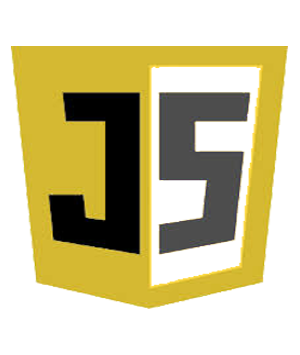
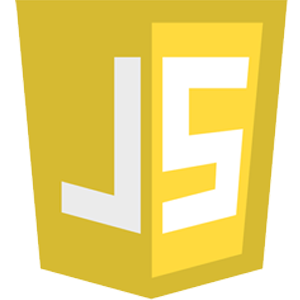
changes to HTML, CSS, JS pictures

diff --git a/dist/index.html b/dist/index.html
@@ -1,1 +1,1 @@
-<!DOCTYPE html><html lang="en"><head><title>Off-Piste Designs</title><meta charset="utf-8"><meta http-equiv="X-UA-Compatible" content="IE=edge"><meta name="description" content="Off-Piste Designs utilizes unconventional, unusual, and unexpected designs to create unique and modern websites."><meta name="keywords" content="Unique and Modern Websites, web development, websites, website building, web design, digital design, brian berzellini, berziiii, scratch website builds"><meta name="viewport" content="width=device-width,initial-scale=1"><link rel="shortcut icon" href="images/favicon.ico"><link rel="stylesheet" href="//cdnjs.cloudflare.com/ajax/libs/normalize/3.0.1/normalize.min.css"><link rel="stylesheet" href="css/bootstrap.min.css"><link rel="stylesheet" href="css/main.css"><script src="//cdnjs.cloudflare.com/ajax/libs/jquery/2.1.1/jquery.min.js" type="text/javascript"></script><script src="//cdnjs.cloudflare.com/ajax/libs/jquery-csv/0.71/jquery.csv-0.71.min.js" type="text/javascript"></script></head><body><header><nav><div class="row"><div class="col-lg-4 col-md-4 col-sm-4 hidden-xs"><h5>Off-Piste Designs</h5></div><div class="col-lg-4 col-md-4 col-sm-4"><a id="top" href="home.html"><img src="images/off-piste-logo.png" alt="Off-Piste Logo"></a></div><div class="col-lg-4 col-md-4 col-sm-4"><ul><li><a href="home.html"><span class="active">Home</span></a></li><li><a href="about.html"><span>About</span></a></li></ul></div></div><a href="#top" class="top hide" id="scrollTop"><span class="glyphicons glyphicons-up-arrow"></span></a></nav></header><main><div class="main-container"><div class="hero-container"><img src="images/tahoe-background.png" alt="Tahoe Image"><div class="hero-curtain"><div class="hero-content"><div class="rotating-sentence">Hi, I'm Brian.<br>I'm a Web Developer,<br>Creator,<br>&amp;&nbsp;<span class="rotating-words" id="rotateWord"></span></div></div></div></div><div class="work-container"><div class="row"><div class="col-lg-8 col-lg-offset-2 col-md-8 col-md-offset-2 col-sm-8 col-sm-offset-2 col-xs-8 col-xs-offset-2 work-title"><h1>Work</h1></div></div><div class="row"><div class="col-lg-10 col-lg-offset-1 col-md-10 col-md-offset-1 col-sm-10 col-sm-offset-1"><div class="row sample-container"><div class="col-lg-4 col-md-4 col-sm-6 work-sample"><a href="tastyr.html"><img src="images/tastyr-logo.png" alt="Tastyr Logo"> <span class="sample-caption center"><h5>Tastyr</h5><h6>Hybrid Recipe Finder &amp; Food Planner</h6></span></a></div><div class="col-lg-4 col-md-4 col-sm-6 work-sample"><a href="a-guy-and-a-website.html"><img src="images/agaw-logo.png" alt="A Guy and A Webstie Logo"> <span class="sample-caption center"><h5>A Guy and A Website</h5><h6>Custom Wordpress Theme</h6></span></a></div><div class="col-lg-4 col-md-4 col-sm-6 work-sample"><a href="curiousalums.html"><img src="images/curiousalums-logo.png" alt="Curious Alums Logo"> <span class="sample-caption center"><h5>The Curious Alum</h5><h6>GA Alumni Community</h6></span></a></div><div class="col-lg-4 col-md-4 col-sm-6 work-sample"><a href="jba.html"><img src="images/JBA-logo.png" alt="JBA Logo"> <span class="sample-caption center"><h5>JBA Financial Advisors</h5><h6>Corporate Site Redesign</h6></span></a></div><div class="col-lg-4 col-md-4 col-sm-6 work-sample"><a href="Admon.html"><img src="images/Admon-logo.png" alt="Admon Logo"> <span class="sample-caption center"><h5>Admon Wedding</h5><h6>Website Design &amp; development</h6></span></a></div><div class="col-lg-4 col-md-4 col-sm-6 work-sample"><a href="Vitamin-T.html"><img src="images/vitamin-t-logo.png" alt="Vitamin T Logo"> <span class="sample-caption center"><h5>Vitamin T Talent Portal</h5><h6>Beta Web Application</h6></span></a></div></div></div></div></div><div class="service-container"><div class="row"><div class="col-lg-8 col-lg-offset-2 col-md-8 col-md-offset-2 col-sm-8 col-sm-offset-2 col-xs-8 col-xs-offset-2 service-title"><h1>Services</h1></div></div><div class="row"><div class="col-lg-12 col-md-12 col-sm-12 service-wrapper"><div class="row"><div class="col-lg-3 col-md-3 col-sm-6"><span class="glyphicons glyphicons-pencil"></span><h4>Design</h4></div><div class="col-lg-3 col-md-3 col-sm-6"><span class="glyphicons glyphicons-embed-close"></span><h4>Development</h4></div><div class="col-lg-3 col-md-3 col-sm-6"><span class="glyphicons glyphicons-cogwheels"></span><h4>Strategy</h4></div><div class="col-lg-3 col-md-3 col-sm-6"><span class="glyphicons glyphicons-fire"></span><h4>Branding</h4></div></div></div></div></div><div class="service-container"><div class="row"><div class="col-lg-8 col-lg-offset-2 col-md-8 col-md-offset-2 col-sm-8 col-sm-offset-2 col-xs-8 col-xs-offset-2 service-title"><h1>Skills</h1></div></div><div class="row"><div class="col-lg-12 col-md-12 col-sm-12 service-wrapper"><div class="row"><div class="col-lg-2 col-md-2 col-sm-4"><img id="skill" src="images/HTML5.png" alt="HTML"></div><div class="col-lg-2 col-md-2 col-sm-4"><img id="skill" src="images/css3_scaled.png" alt="CSS"></div><div class="col-lg-2 col-md-2 col-sm-4"><img id="skill" src="images/js_scaled.png" alt="JavaScript"></div><div class="col-lg-2 col-md-2 col-sm-4"><img id="skill" src="images/bootstrap_scaled.png" alt="Bootstrap"></div><div class="col-lg-2 col-md-2 col-sm-4"><img id="skill" src="images/ruby.png" alt="Ruby"></div><div class="col-lg-2 col-md-2 col-sm-4"><img id="skill" src="images/rails.png" alt="Rails"></div></div></div></div></div><div class="social-container"><div class="row"><div class="col-lg-8 col-lg-offset-2 col-md-8 col-md-offset-2 col-sm-8 col-sm-offset-2 col-xs-8 col-xs-offset-2 social-title"></div></div><div class="row"><div class="col-lg-4 col-lg-offset-4 col-md-4 col-md-offset-4 col-sm-6 col-sm-offset-3 col-xs-12"><a href="https://www.linkedin.com/in/brianberzellini" target="_blank"><span class="social social-linked-in"></span></a> <a href="https://twitter.com/Berziiii" target="_blank"><span class="social social-twitter"></span></a> <a href="https://github.com/berziiii" target="_blank"><span class="social social-github"></span></a> <a id="resume" href="http://www.offpistedesigns.com/Resume.pdf" target="_blank"><span class="glyphicons glyphicons-paperclip"></span></a></div></div></div></div></main><footer><div class="footer-container"><h6>Off-Piste Designs &copy; 2015. All rights reserved.</h6></div></footer></body><script src="js/main.js"></script><script src="js/bootstrap.min.js"></script></html>
+<!DOCTYPE html><html lang="en"><head><title>Off-Piste Designs</title><meta charset="utf-8"><meta http-equiv="X-UA-Compatible" content="IE=edge"><meta name="description" content="Off-Piste Designs utilizes unconventional, unusual, and unexpected designs to create unique and modern websites."><meta name="keywords" content="Unique and Modern Websites, web development, websites, website building, web design, digital design, brian berzellini, berziiii, scratch website builds"><meta name="viewport" content="width=device-width,initial-scale=1"><link rel="shortcut icon" href="images/favicon.ico"><link rel="stylesheet" href="//cdnjs.cloudflare.com/ajax/libs/normalize/3.0.1/normalize.min.css"><link rel="stylesheet" href="css/bootstrap.min.css"><link rel="stylesheet" href="css/main.css"><script src="//cdnjs.cloudflare.com/ajax/libs/jquery/2.1.1/jquery.min.js" type="text/javascript"></script><script src="//cdnjs.cloudflare.com/ajax/libs/jquery-csv/0.71/jquery.csv-0.71.min.js" type="text/javascript"></script></head><body><header><nav><div class="row"><div class="col-lg-4 col-md-4 col-sm-4 hidden-xs"><h5>Off-Piste Designs</h5></div><div class="col-lg-4 col-md-4 col-sm-4"><a id="top" href="home.html"><img src="images/off-piste-logo.png" alt="Off-Piste Logo"></a></div><div class="col-lg-4 col-md-4 col-sm-4"><ul><li><a href="home.html"><span class="active">Home</span></a></li><li><a href="about.html"><span>About</span></a></li></ul></div></div><a href="#top" class="top hide" id="scrollTop"><span class="glyphicons glyphicons-up-arrow"></span></a></nav></header><main><div class="main-container"><div class="hero-container"><img src="images/tahoe-background.png" alt="Tahoe Image"><div class="hero-curtain"><div class="hero-content"><div class="rotating-sentence">Hi, I'm Brian.<br>I'm a Web Developer,<br>Creator,<br>&amp;&nbsp;<span class="rotating-words" id="rotateWord"></span></div></div></div></div><div class="work-container"><div class="row"><div class="col-lg-8 col-lg-offset-2 col-md-8 col-md-offset-2 col-sm-8 col-sm-offset-2 col-xs-8 col-xs-offset-2 work-title"><h1>Work</h1></div></div><div class="row"><div class="col-lg-10 col-lg-offset-1 col-md-10 col-md-offset-1 col-sm-10 col-sm-offset-1"><div class="row sample-container"><div class="col-lg-4 col-md-4 col-sm-6 work-sample"><a href="tastyr.html"><img src="images/tastyr-logo.png" alt="Tastyr Logo"> <span class="sample-caption center"><h5>Tastyr</h5><h6>Hybrid Recipe Finder &amp; Food Planner</h6></span></a></div><div class="col-lg-4 col-md-4 col-sm-6 work-sample"><a href="a-guy-and-a-website.html"><img src="images/agaw-logo.png" alt="A Guy and A Webstie Logo"> <span class="sample-caption center"><h5>A Guy and A Website</h5><h6>Custom Wordpress Theme</h6></span></a></div><div class="col-lg-4 col-md-4 col-sm-6 work-sample"><a href="curiousalums.html"><img src="images/curiousalums-logo.png" alt="Curious Alums Logo"> <span class="sample-caption center"><h5>The Curious Alum</h5><h6>GA Alumni Community</h6></span></a></div><div class="col-lg-4 col-md-4 col-sm-6 work-sample"><a href="jba.html"><img src="images/JBA-logo.png" alt="JBA Logo"> <span class="sample-caption center"><h5>JBA Financial Advisors</h5><h6>Corporate Site Redesign</h6></span></a></div><div class="col-lg-4 col-md-4 col-sm-6 work-sample"><a href="Admon.html"><img src="images/Admon-logo.png" alt="Admon Logo"> <span class="sample-caption center"><h5>Admon Wedding</h5><h6>Website Design &amp; development</h6></span></a></div><div class="col-lg-4 col-md-4 col-sm-6 work-sample"><a href="Vitamin-T.html"><img src="images/vitamin-t-logo.png" alt="Vitamin T Logo"> <span class="sample-caption center"><h5>Vitamin T Talent Portal</h5><h6>Beta Web Application</h6></span></a></div></div></div></div></div><div class="service-container"><div class="row"><div class="col-lg-8 col-lg-offset-2 col-md-8 col-md-offset-2 col-sm-8 col-sm-offset-2 col-xs-8 col-xs-offset-2 service-title"><h1>Services</h1></div></div><div class="row"><div class="col-lg-12 col-md-12 col-sm-12 service-wrapper"><div class="row"><div class="col-lg-3 col-md-3 col-sm-6"><span class="glyphicons glyphicons-pencil"></span><h4>Design</h4></div><div class="col-lg-3 col-md-3 col-sm-6"><span class="glyphicons glyphicons-embed-close"></span><h4>Development</h4></div><div class="col-lg-3 col-md-3 col-sm-6"><span class="glyphicons glyphicons-cogwheels"></span><h4>Strategy</h4></div><div class="col-lg-3 col-md-3 col-sm-6"><span class="glyphicons glyphicons-fire"></span><h4>Branding</h4></div></div></div></div></div><div class="service-container"><div class="row"><div class="col-lg-8 col-lg-offset-2 col-md-8 col-md-offset-2 col-sm-8 col-sm-offset-2 col-xs-8 col-xs-offset-2 service-title"><h1>Skills</h1></div></div><div class="row"><div class="col-lg-12 col-md-12 col-sm-12 service-wrapper"><div class="row"><div class="col-lg-2 col-md-2 col-sm-4"><img id="skill" src="images/HTML5-1.png" alt="HTML"></div><div class="col-lg-2 col-md-2 col-sm-4"><img id="skill" src="images/CSS3.png" alt="CSS"></div><div class="col-lg-2 col-md-2 col-sm-4"><img id="skill" src="images/JS.png" alt="JavaScript"></div><div class="col-lg-2 col-md-2 col-sm-4"><img id="skill" src="images/bootstrap_scaled.png" alt="Bootstrap"></div><div class="col-lg-2 col-md-2 col-sm-4"><img id="skill" src="images/ruby.png" alt="Ruby"></div><div class="col-lg-2 col-md-2 col-sm-4"><img id="skill" src="images/rails.png" alt="Rails"></div></div></div></div></div><div class="social-container"><div class="row"><div class="col-lg-8 col-lg-offset-2 col-md-8 col-md-offset-2 col-sm-8 col-sm-offset-2 col-xs-8 col-xs-offset-2 social-title"></div></div><div class="row"><div class="col-lg-4 col-lg-offset-4 col-md-4 col-md-offset-4 col-sm-6 col-sm-offset-3 col-xs-12"><a href="https://www.linkedin.com/in/brianberzellini" target="_blank"><span class="social social-linked-in"></span></a> <a href="https://twitter.com/Berziiii" target="_blank"><span class="social social-twitter"></span></a> <a href="https://github.com/berziiii" target="_blank"><span class="social social-github"></span></a> <a id="resume" href="http://www.offpistedesigns.com/Resume.pdf" target="_blank"><span class="glyphicons glyphicons-paperclip"></span></a></div></div></div></div></main><footer><div class="footer-container"><h6>Off-Piste Designs &copy; 2015. All rights reserved.</h6></div></footer></body><script src="js/main.js"></script><script src="js/bootstrap.min.js"></script></html>

diff --git a/src/index.html b/src/index.html
@@ -157,13 +157,13 @@
 						<div class="col-lg-12 col-md-12 col-sm-12 service-wrapper">
 							<div class="row">
 								<div class="col-lg-2 col-md-2 col-sm-4">
-									<img id="skill" src="images/HTML5.png" alt="HTML">
+									<img id="skill" src="images/HTML5-1.png" alt="HTML">
 								</div>
 								<div class="col-lg-2 col-md-2 col-sm-4">
-									<img id="skill" src="images/css3_scaled.png" alt="CSS">
+									<img id="skill" src="images/CSS3.png" alt="CSS">
 								</div>
 								<div class="col-lg-2 col-md-2 col-sm-4">
-									<img id="skill" src="images/js_scaled.png" alt="JavaScript">
+									<img id="skill" src="images/JS.png" alt="JavaScript">
 								</div>
 								<div class="col-lg-2 col-md-2 col-sm-4">
 									<img id="skill" src="images/bootstrap_scaled.png" alt="Bootstrap">
